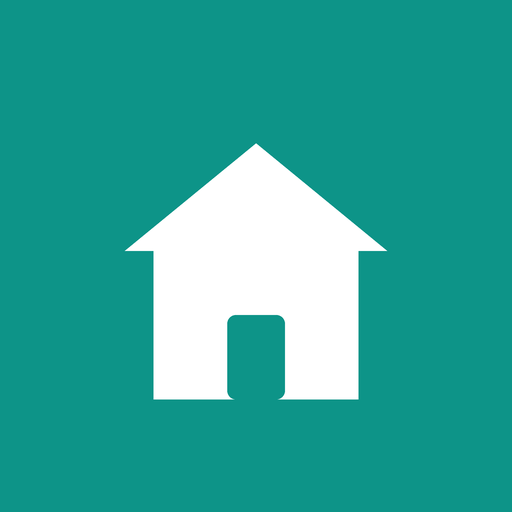
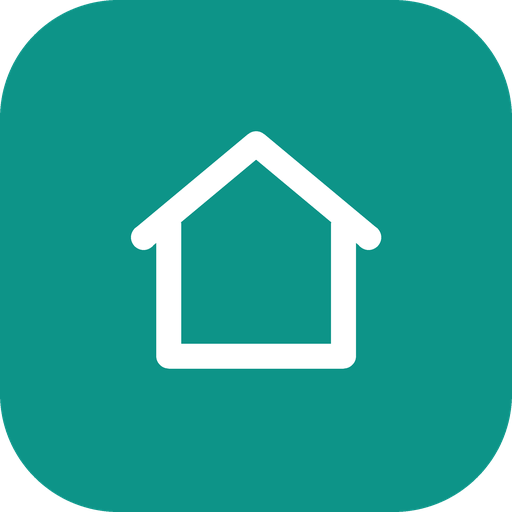
Commit global

diff --git a/src/components/Navbar.tsx b/src/components/Navbar.tsx
@@ -1,6 +1,9 @@
 // Barra de navegación pública: la Home es una sola página con secciones, por eso los links de contenido son anclas (#seccion) en vez de rutas separadas.
-import { useState } from "react";
-import { Link } from "react-router-dom";
+// Ojo: la misma Navbar se usa en /privacidad y /terminos, donde esas secciones no existen. Un href="#pilares"
+// suelto resuelve contra la ruta actual y deja la URL en /terminos#pilares sin ir a ningún lado, así que fuera
+// del home los links tienen que ser <Link to="/#pilares"> (navegan al home y el efecto de hash hace el scroll).
+import { useState, type ReactNode } from "react";
+import { Link, useLocation } from "react-router-dom";
 
 const sections = [
   { href: "#pilares", label: "Funcionalidades" },
@@ -8,8 +11,37 @@ const sections = [
   { href: "#precios", label: "Precios" },
 ];
 
+// En el home el ancla nativa alcanza (y no ensucia el historial); fuera del home hace falta cambiar de ruta.
+function SectionLink({
+  href,
+  onHome,
+  onNavigate,
+  className,
+  children,
+}: {
+  href: string;
+  onHome: boolean;
+  onNavigate: () => void;
+  className: string;
+  children: ReactNode;
+}) {
+  if (onHome) {
+    return (
+      <a href={href} onClick={onNavigate} className={className}>
+        {children}
+      </a>
+    );
+  }
+  return (
+    <Link to={`/${href}`} onClick={onNavigate} className={className}>
+      {children}
+    </Link>
+  );
+}
+
 export function Navbar() {
   const [open, setOpen] = useState(false);
+  const onHome = useLocation().pathname === "/";
 
   return (
     <header className="sticky top-0 z-50 border-b border-slate-200 bg-white/80 backdrop-blur">
@@ -20,13 +52,15 @@ export function Navbar() {
 
         <div className="hidden items-center gap-8 md:flex">
           {sections.map((section) => (
-            <a
+            <SectionLink
               key={section.href}
               href={section.href}
+              onHome={onHome}
+              onNavigate={() => setOpen(false)}
               className="text-sm font-medium text-slate-600 transition-colors hover:text-slate-900"
             >
               {section.label}
-            </a>
+            </SectionLink>
           ))}
         </div>
 
@@ -64,14 +98,15 @@ export function Navbar() {
       {open && (
         <div className="flex flex-col gap-4 border-t border-slate-200 bg-white px-6 py-4 md:hidden">
           {sections.map((section) => (
-            <a
+            <SectionLink
               key={section.href}
               href={section.href}
-              onClick={() => setOpen(false)}
+              onHome={onHome}
+              onNavigate={() => setOpen(false)}
               className="text-sm font-medium text-slate-700"
             >
               {section.label}
-            </a>
+            </SectionLink>
           ))}
           <Link to="/login" onClick={() => setOpen(false)} className="text-sm font-medium text-slate-700">
             Iniciar sesión

diff --git a/index.html b/index.html
@@ -1,10 +1,26 @@
 <!doctype html>
-<html lang="en">
+<html lang="es">
   <head>
     <meta charset="UTF-8" />
     <link rel="icon" type="image/svg+xml" href="/favicon.svg" />
     <meta name="viewport" content="width=device-width, initial-scale=1.0" />
-    <title>crm-corredores-web</title>
+    <meta name="theme-color" content="#0d9488" />
+
+    <title>InmoCRM — CRM para corredores inmobiliarios</title>
+    <meta
+      name="description"
+      content="El asistente de bolsillo para el corredor inmobiliario independiente: cargá una propiedad en 30 segundos, compartila por WhatsApp y enterate al instante cuándo matchea con un cliente."
+    />
+
+    <meta property="og:type" content="website" />
+    <meta property="og:site_name" content="InmoCRM" />
+    <meta property="og:title" content="InmoCRM — CRM para corredores inmobiliarios" />
+    <meta
+      property="og:description"
+      content="Cargá una propiedad en 30 segundos, compartila por WhatsApp y enterate al instante cuándo matchea con un cliente."
+    />
+    <meta property="og:image" content="/pwa-512x512.png" />
+    <meta name="twitter:card" content="summary" />
   </head>
   <body>
     <div id="root"></div>

diff --git a/src/pages/Home.tsx b/src/pages/Home.tsx
@@ -77,10 +77,15 @@ function GlobeIcon() {
 export function Home() {
   const location = useLocation();
 
+  // Cuando se llega con hash desde otra ruta (ej. /terminos -> /#precios) el Home recién se monta,
+  // así que el scroll se difiere un frame para que la sección ya esté maquetada.
   useEffect(() => {
     if (!location.hash) return;
-    const target = document.querySelector(location.hash);
-    target?.scrollIntoView({ behavior: "smooth" });
+    const hash = location.hash;
+    const frame = requestAnimationFrame(() => {
+      document.querySelector(hash)?.scrollIntoView({ behavior: "smooth" });
+    });
+    return () => cancelAnimationFrame(frame);
   }, [location.hash]);
 
   return (

diff --git a/src/components/UserMenu.tsx b/src/components/UserMenu.tsx
@@ -5,8 +5,8 @@ import { Link } from "react-router-dom";
 import { trpc } from "../trpc";
 
 function initialsFor(value: string): string {
-  // Sirve tanto para un nombre real ("Nicolás Admet" → NA) como para un email de respaldo
-  // ("nico.admet@..." → NA), separando por espacio, punto, guión o guión bajo.
+  // Sirve tanto para un nombre real como para un email de respaldo
+  // , separando por espacio, punto, guión o guión bajo.
   const base = value.includes("@") ? (value.split("@")[0] ?? "") : value;
   const parts = base.split(/[\s._-]+/).filter(Boolean);
   const letters = parts.length >= 2 ? `${parts[0][0]}${parts[1][0]}` : base.slice(0, 2);

diff --git a/vite.config.ts b/vite.config.ts
@@ -19,10 +19,10 @@ export default defineConfig({
       srcDir: 'src',
       filename: 'sw.ts',
       manifest: {
-        name: 'CRM Corredores',
-        short_name: 'CRM Corredores',
+        name: 'InmoCRM',
+        short_name: 'InmoCRM',
         description: 'Asistente de bolsillo para corredores inmobiliarios',
-        theme_color: '#ffffff',
+        theme_color: '#0d9488',
         display: 'standalone',
         icons: [
           { src: 'pwa-192x192.png', sizes: '192x192', type: 'image/png' },
